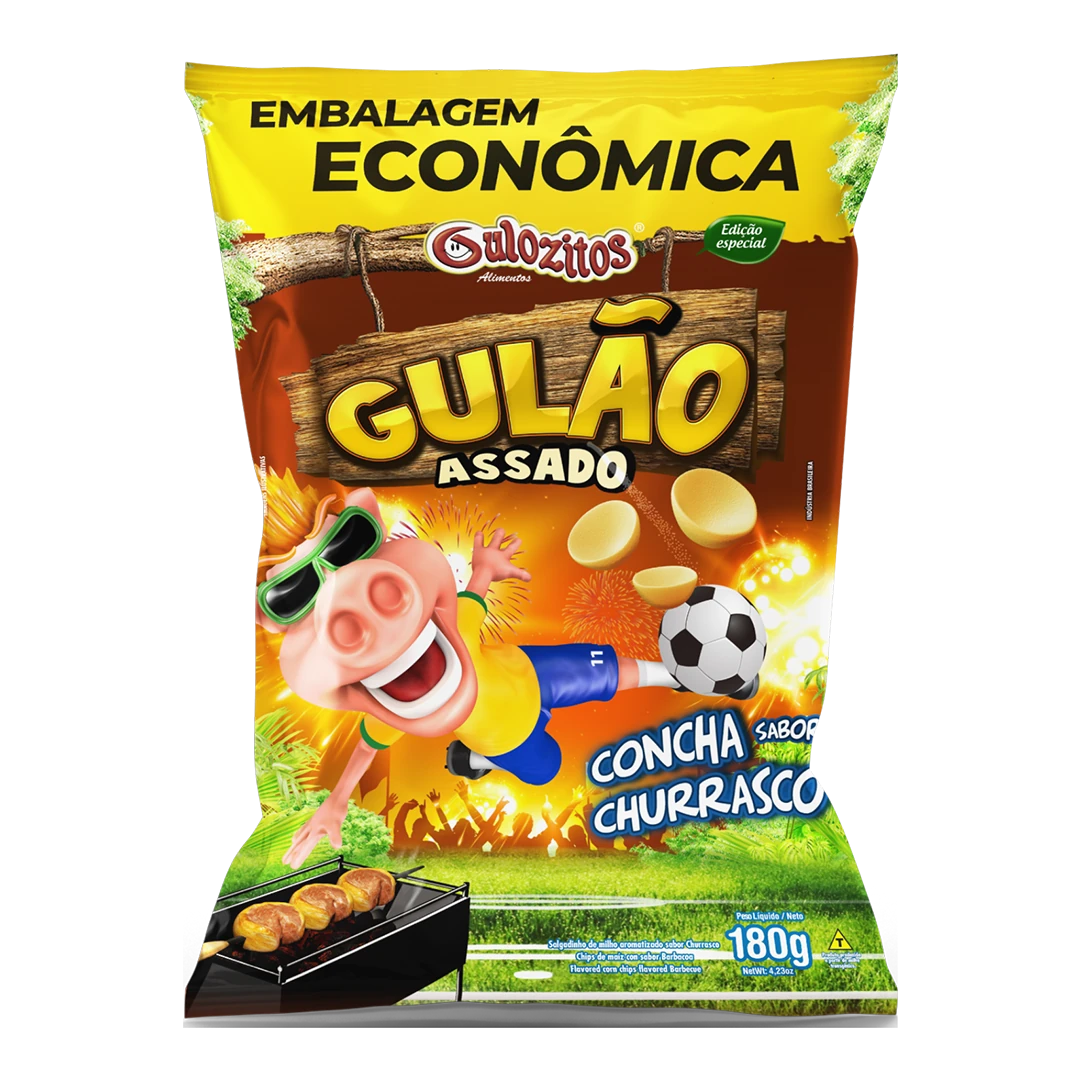
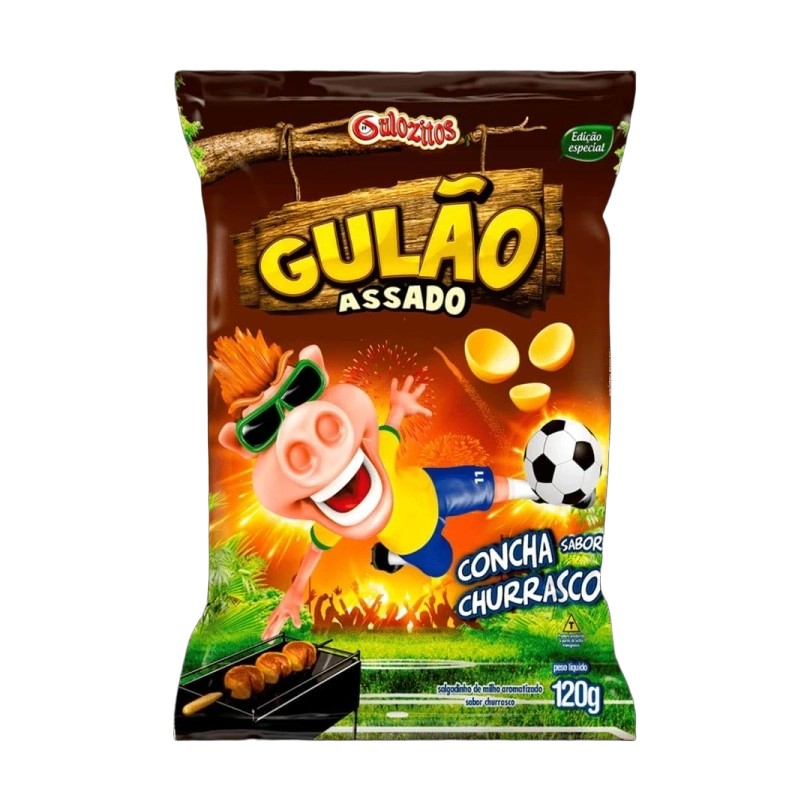
ajustando os produtos du gulao

diff --git a/src/pages/produtos.html b/src/pages/produtos.html
@@ -165,7 +165,7 @@
           <div class="product-card" data-modal="modal-gulao" data-index="0">
             <img
               src="src/assets/img/novidades-produtos/gulao-requeijao.webp"
-              alt="Gulão 180g Requeijão"
+              alt="Gulão 120g Requeijão"
               class="product-image"
             />
           </div>
@@ -178,22 +178,22 @@
           </div>
           <div class="product-card" data-modal="modal-gulao" data-index="2">
             <img
-              src="src/assets/img/novidades-produtos/gulao-cebola-e-salsa.webp"
-              alt="Gulão 180g Cebola e Salsa"
+              src="src/assets/img/novidades-produtos/gulao-salsa-e-cebola.webp"
+              alt="Gulão 120g Cebola e Salsa"
               class="product-image"
             />
           </div>
           <div class="product-card" data-modal="modal-gulao" data-index="3">
             <img
               src="src/assets/img/novidades-produtos/gulao-churrasco.webp"
-              alt="Gulão 180g Churrasco"
+              alt="Gulão 120g Churrasco"
               class="product-image"
             />
           </div>
           <div class="product-card" data-modal="modal-gulao" data-index="4">
             <img
               src="src/assets/img/novidades-produtos/gulao-presunto.webp"
-              alt="Gulão 180g Presunto"
+              alt="Gulão 120g Presunto"
               class="product-image"
             />
           </div>
